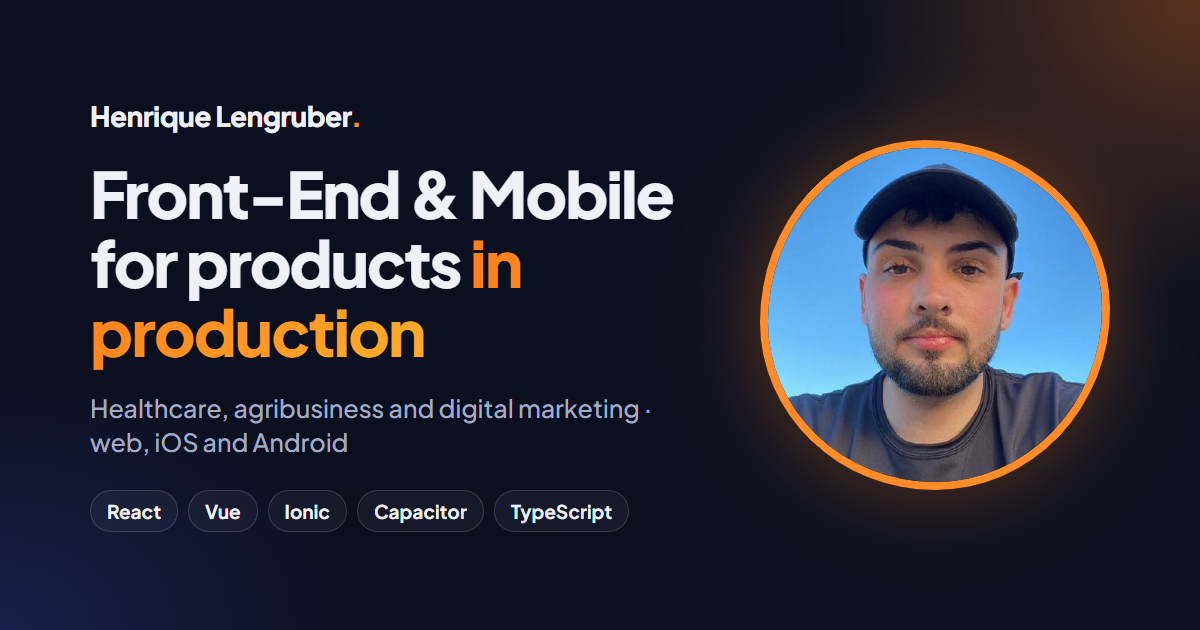
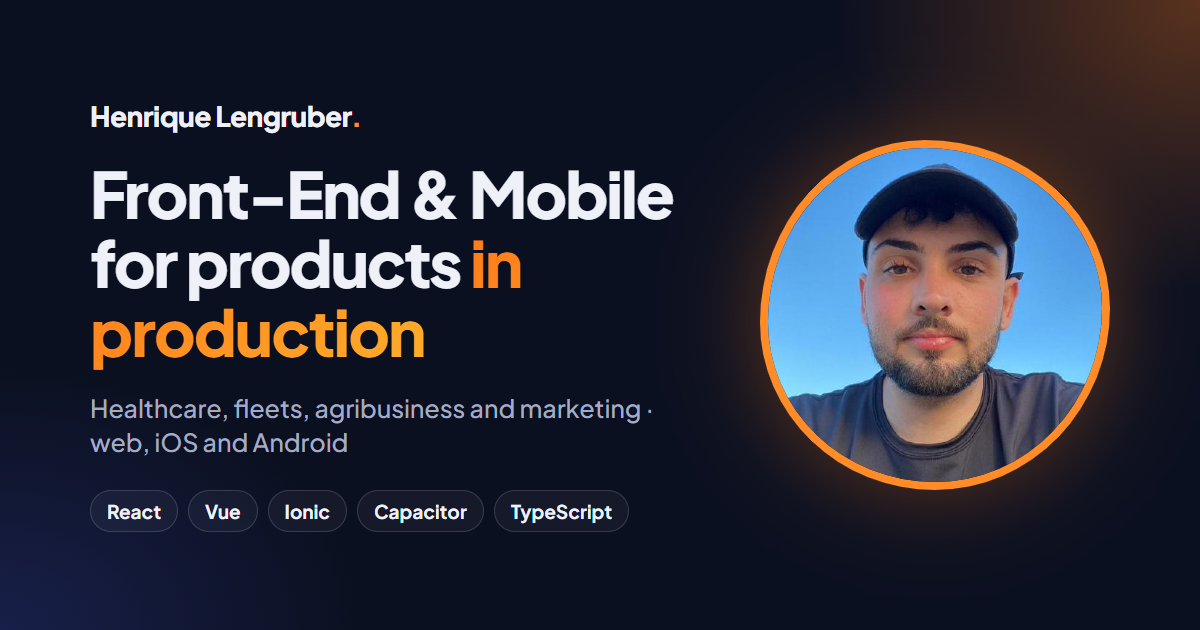
feat: proteção anti-spam no contato, CSP e rastreamento de frotas no texto

Changed region(s): [[0.185, 0.6333, 0.555, 0.6635]]

diff --git a/index.html b/index.html
@@ -3,10 +3,12 @@
 <head>
   <meta charset="utf-8">
   <meta name="viewport" content="width=device-width, initial-scale=1">
+  <meta http-equiv="Content-Security-Policy" content="default-src 'self'; script-src 'self' 'sha256-Du+OJKJSbdUgz5nrHeWWINvez6XKDDU/tyj/5c2uvwo=' https://www.googletagmanager.com; style-src 'self' https://fonts.googleapis.com; font-src https://fonts.gstatic.com; img-src 'self' data: https://*.google-analytics.com https://*.googletagmanager.com; connect-src 'self' https://formsubmit.co https://*.google-analytics.com https://*.analytics.google.com https://*.googletagmanager.com; form-action https://formsubmit.co; base-uri 'self'; object-src 'none'">
+  <meta name="referrer" content="strict-origin-when-cross-origin">
   <title>Henrique Lengruber · Front-End & Mobile</title>
-  <meta name="description" content="Henrique Lengruber, desenvolvedor Front-End e Mobile. Aplicações web e apps iOS e Android com React, Vue, Ionic e TypeScript para saúde, agronegócio e marketing digital.">
+  <meta name="description" content="Henrique Lengruber, desenvolvedor Front-End e Mobile. Aplicações web e apps iOS e Android com React, Vue, Ionic e TypeScript para saúde, rastreamento de frotas, agronegócio e marketing digital.">
   <meta property="og:title" content="Henrique Lengruber · Front-End & Mobile">
-  <meta property="og:description" content="Aplicações web e apps iOS e Android com React, Vue, Ionic e TypeScript. Mais de 5 anos em saúde, agronegócio e marketing digital, do protótipo até a publicação.">
+  <meta property="og:description" content="Aplicações web e apps iOS e Android com React, Vue, Ionic e TypeScript. Mais de 5 anos em saúde, rastreamento de frotas, agronegócio e marketing digital, do protótipo até a publicação.">
   <meta property="og:image" content="https://henriquerl55.github.io/assets/og-image.png">
   <meta property="og:image:width" content="1200">
   <meta property="og:image:height" content="630">
@@ -26,7 +28,7 @@
     "@type": "Person",
     "name": "Henrique Lengruber",
     "jobTitle": "Desenvolvedor Front-End & Mobile",
-    "description": "Desenvolvedor Front-End e Mobile com mais de 5 anos em aplicações web e apps iOS e Android para saúde, agronegócio e marketing digital.",
+    "description": "Desenvolvedor Front-End e Mobile com mais de 5 anos em aplicações web e apps iOS e Android para saúde, rastreamento de frotas, agronegócio e marketing digital.",
     "worksFor": [
       { "@type": "Organization", "name": "Kompa Saúde", "url": "https://www.kompa.com.br/" },
       { "@type": "Organization", "name": "Softers", "url": "https://www.softers.com.br/" }
@@ -38,7 +40,7 @@
     "address": { "@type": "PostalAddress", "addressLocality": "Santa Maria", "addressRegion": "RS", "addressCountry": "BR" },
     "alumniOf": { "@type": "CollegeOrUniversity", "name": "Universidade Federal de Santa Maria", "url": "https://www.ufsm.br/" },
     "knowsLanguage": ["pt-BR", "en"],
-    "knowsAbout": ["React", "React Native", "Vue.js", "Angular", "TypeScript", "Ionic", "Capacitor", "iOS", "Android", "WebRTC", "WebSocket", "Google Maps", "Firebase", "Telemedicina", "Gestão de redes sociais", "Agricultura de precisão"],
+    "knowsAbout": ["React", "React Native", "Vue.js", "Angular", "TypeScript", "Ionic", "Capacitor", "iOS", "Android", "WebRTC", "WebSocket", "Google Maps", "Firebase", "Telemedicina", "Rastreamento de frotas", "Gestão de redes sociais", "Agricultura de precisão"],
     "sameAs": ["https://www.linkedin.com/in/henrique-lengruber-4649a41b0", "https://github.com/HenriqueRL55"]
   }
   </script>
@@ -113,7 +115,7 @@
           <p class="status reveal"><span class="status__dot" aria-hidden="true"></span>Aberto a propostas · remoto · CLT ou PJ</p>
           <p class="hero__hello reveal">Oi, eu sou o Henrique <span class="wave" aria-hidden="true">👋</span></p>
           <h1 class="hero__title reveal">Front-End &amp; Mobile para produtos <span class="accent">em produção</span></h1>
-          <p class="hero__lead reveal">Desenvolvo aplicações web e apps para iOS e Android com React, Vue, Ionic e TypeScript. São mais de 5 anos desenvolvendo sistemas para saúde, agronegócio e marketing digital, do protótipo até a publicação.</p>
+          <p class="hero__lead reveal">Desenvolvo aplicações web e apps para iOS e Android com React, Vue, Ionic e TypeScript. São mais de 5 anos desenvolvendo sistemas para saúde, rastreamento de frotas, agronegócio e marketing digital, do protótipo até a publicação.</p>
 
           <div class="hero__actions reveal">
             <a class="btn" href="#contato">Fale comigo <svg class="icon"><use href="#i-arrow"/></svg></a>
@@ -355,7 +357,7 @@
           <article class="service reveal">
             <span class="service__icon"><svg class="icon"><use href="#i-video"/></svg></span>
             <h3>Tempo real</h3>
-            <p>Filas de atendimento ao vivo com WebSocket e Socket.IO, transcrição por WebRTC e chamadas de vídeo, sem recarregar a página.</p>
+            <p>Rastreamento de frotas com mais de 800 mil veículos no mapa, filas de atendimento ao vivo com WebSocket e Socket.IO, transcrição por WebRTC e chamadas de vídeo, sem recarregar a página.</p>
           </article>
         </div>
       </div>
@@ -651,7 +653,7 @@
             </ul>
           </div>
 
-          <form class="form" id="form-contato" data-default-topic="Contato" data-msg-sending="Enviando…" data-msg-success="Mensagem enviada! Respondo no e-mail que você informou." data-msg-error="Não consegui enviar por aqui, então abri o seu app de e-mail com a mensagem pronta." action="https://formsubmit.co/henriquerl22@outlook.com" method="post">
+          <form class="form" id="form-contato" data-default-topic="Contato" data-msg-sending="Enviando…" data-msg-success="Mensagem enviada! Respondo no e-mail que você informou." data-msg-cooldown="Você acabou de enviar uma mensagem. Aguarde um minuto para enviar outra." data-msg-error="Não consegui enviar por aqui, então abri o seu app de e-mail com a mensagem pronta." action="https://formsubmit.co/henriquerl22@outlook.com" method="post">
             <fieldset class="form__topics">
               <legend>Assunto</legend>
               <label class="chip"><input type="radio" name="assunto" value="Vaga CLT" checked><span>Vaga CLT</span></label>
@@ -660,11 +662,11 @@
               <label class="chip"><input type="radio" name="assunto" value="Outro"><span>Outro</span></label>
             </fieldset>
             <div class="form__row">
-              <label class="field"><span>Seu nome</span><input type="text" name="nome" autocomplete="name" required></label>
-              <label class="field"><span>Empresa</span><input type="text" name="empresa" autocomplete="organization"></label>
+              <label class="field"><span>Seu nome</span><input type="text" name="nome" autocomplete="name" maxlength="80" required></label>
+              <label class="field"><span>Empresa</span><input type="text" name="empresa" autocomplete="organization" maxlength="80"></label>
             </div>
-            <label class="field"><span>Seu e-mail</span><input type="email" name="email" autocomplete="email" required></label>
-            <label class="field"><span>Mensagem</span><textarea name="mensagem" rows="5" required></textarea></label>
+            <label class="field"><span>Seu e-mail</span><input type="email" name="email" autocomplete="email" maxlength="120" required></label>
+            <label class="field"><span>Mensagem</span><textarea name="mensagem" rows="5" minlength="10" maxlength="2000" required></textarea></label>
             <label class="form__honey" aria-hidden="true">Não preencha<input type="text" name="_honey" tabindex="-1" autocomplete="off"></label>
             <input type="hidden" name="_subject" value="Contato pelo portfólio">
             <button class="btn btn--full" type="submit">Enviar mensagem <svg class="icon"><use href="#i-send"/></svg></button>

diff --git a/en/index.html b/en/index.html
@@ -3,10 +3,12 @@
 <head>
   <meta charset="utf-8">
   <meta name="viewport" content="width=device-width, initial-scale=1">
+  <meta http-equiv="Content-Security-Policy" content="default-src 'self'; script-src 'self' 'sha256-Du+OJKJSbdUgz5nrHeWWINvez6XKDDU/tyj/5c2uvwo=' https://www.googletagmanager.com; style-src 'self' https://fonts.googleapis.com; font-src https://fonts.gstatic.com; img-src 'self' data: https://*.google-analytics.com https://*.googletagmanager.com; connect-src 'self' https://formsubmit.co https://*.google-analytics.com https://*.analytics.google.com https://*.googletagmanager.com; form-action https://formsubmit.co; base-uri 'self'; object-src 'none'">
+  <meta name="referrer" content="strict-origin-when-cross-origin">
   <title>Henrique Lengruber · Front-End & Mobile Developer</title>
-  <meta name="description" content="Henrique Lengruber, Front-End and Mobile developer from Brazil. Web applications and iOS and Android apps with React, Vue, Ionic and TypeScript for healthcare, agribusiness and digital marketing.">
+  <meta name="description" content="Henrique Lengruber, Front-End and Mobile developer from Brazil. Web applications and iOS and Android apps with React, Vue, Ionic and TypeScript for healthcare, fleet tracking, agribusiness and digital marketing.">
   <meta property="og:title" content="Henrique Lengruber · Front-End & Mobile Developer">
-  <meta property="og:description" content="Web applications and iOS and Android apps with React, Vue, Ionic and TypeScript. 5+ years in healthcare, agribusiness and digital marketing, from prototype to release.">
+  <meta property="og:description" content="Web applications and iOS and Android apps with React, Vue, Ionic and TypeScript. 5+ years in healthcare, fleet tracking, agribusiness and digital marketing, from prototype to release.">
   <meta property="og:image" content="https://henriquerl55.github.io/assets/og-image-en.png">
   <meta property="og:image:width" content="1200">
   <meta property="og:image:height" content="630">
@@ -26,7 +28,7 @@
     "@type": "Person",
     "name": "Henrique Lengruber",
     "jobTitle": "Front-End & Mobile Developer",
-    "description": "Front-End and Mobile developer with 5+ years building web applications and iOS and Android apps for healthcare, agribusiness and digital marketing.",
+    "description": "Front-End and Mobile developer with 5+ years building web applications and iOS and Android apps for healthcare, fleet tracking, agribusiness and digital marketing.",
     "worksFor": [
       { "@type": "Organization", "name": "Kompa Saúde", "url": "https://www.kompa.com.br/" },
       { "@type": "Organization", "name": "Softers", "url": "https://www.softers.com.br/" }
@@ -38,7 +40,7 @@
     "address": { "@type": "PostalAddress", "addressLocality": "Santa Maria", "addressRegion": "RS", "addressCountry": "BR" },
     "alumniOf": { "@type": "CollegeOrUniversity", "name": "Universidade Federal de Santa Maria", "url": "https://www.ufsm.br/" },
     "knowsLanguage": ["pt-BR", "en"],
-    "knowsAbout": ["React", "React Native", "Vue.js", "Angular", "TypeScript", "Ionic", "Capacitor", "iOS", "Android", "WebRTC", "WebSocket", "Google Maps", "Firebase", "Telehealth", "Social media management", "Precision agriculture"],
+    "knowsAbout": ["React", "React Native", "Vue.js", "Angular", "TypeScript", "Ionic", "Capacitor", "iOS", "Android", "WebRTC", "WebSocket", "Google Maps", "Firebase", "Telehealth", "Fleet tracking", "Social media management", "Precision agriculture"],
     "sameAs": ["https://www.linkedin.com/in/henrique-lengruber-4649a41b0", "https://github.com/HenriqueRL55"]
   }
   </script>
@@ -114,7 +116,7 @@
           <p class="status reveal"><span class="status__dot" aria-hidden="true"></span>Open to remote roles · UTC−3 · English: intermediate</p>
           <p class="hero__hello reveal">Hi, I'm Henrique <span class="wave" aria-hidden="true">👋</span></p>
           <h1 class="hero__title reveal">Front-End &amp; Mobile for products <span class="accent">in production</span></h1>
-          <p class="hero__lead reveal">I build web applications and iOS and Android apps with React, Vue, Ionic and TypeScript. That's 5+ years building software for healthcare, agribusiness and digital marketing, from prototype to release.</p>
+          <p class="hero__lead reveal">I build web applications and iOS and Android apps with React, Vue, Ionic and TypeScript. That's 5+ years building software for healthcare, fleet tracking, agribusiness and digital marketing, from prototype to release.</p>
 
           <div class="hero__actions reveal">
             <a class="btn" href="#contact">Get in touch <svg class="icon"><use href="#i-arrow"/></svg></a>
@@ -356,7 +358,7 @@
           <article class="service reveal">
             <span class="service__icon"><svg class="icon"><use href="#i-video"/></svg></span>
             <h3>Real time</h3>
-            <p>Live care queues with WebSocket and Socket.IO, WebRTC transcription and video calls, without reloading the page.</p>
+            <p>Fleet tracking with 800k+ vehicles on the map, live care queues with WebSocket and Socket.IO, WebRTC transcription and video calls, without reloading the page.</p>
           </article>
         </div>
       </div>
@@ -653,7 +655,7 @@
             </ul>
           </div>
 
-          <form class="form" id="form-contato" data-default-topic="Contact" data-msg-sending="Sending…" data-msg-success="Message sent! I'll reply to the email you provided." data-msg-error="I couldn't send it from here, so I opened your email app with the message ready." action="https://formsubmit.co/henriquerl22@outlook.com" method="post">
+          <form class="form" id="form-contato" data-default-topic="Contact" data-msg-sending="Sending…" data-msg-success="Message sent! I'll reply to the email you provided." data-msg-cooldown="You just sent a message. Please wait a minute before sending another." data-msg-error="I couldn't send it from here, so I opened your email app with the message ready." action="https://formsubmit.co/henriquerl22@outlook.com" method="post">
             <fieldset class="form__topics">
               <legend>Subject</legend>
               <label class="chip"><input type="radio" name="assunto" value="Full-time role" checked><span>Full-time role</span></label>
@@ -662,11 +664,11 @@
               <label class="chip"><input type="radio" name="assunto" value="Other"><span>Other</span></label>
             </fieldset>
             <div class="form__row">
-              <label class="field"><span>Your name</span><input type="text" name="nome" autocomplete="name" required></label>
-              <label class="field"><span>Company</span><input type="text" name="empresa" autocomplete="organization"></label>
+              <label class="field"><span>Your name</span><input type="text" name="nome" autocomplete="name" maxlength="80" required></label>
+              <label class="field"><span>Company</span><input type="text" name="empresa" autocomplete="organization" maxlength="80"></label>
             </div>
-            <label class="field"><span>Your email</span><input type="email" name="email" autocomplete="email" required></label>
-            <label class="field"><span>Message</span><textarea name="mensagem" rows="5" required></textarea></label>
+            <label class="field"><span>Your email</span><input type="email" name="email" autocomplete="email" maxlength="120" required></label>
+            <label class="field"><span>Message</span><textarea name="mensagem" rows="5" minlength="10" maxlength="2000" required></textarea></label>
             <label class="form__honey" aria-hidden="true">Leave this empty<input type="text" name="_honey" tabindex="-1" autocomplete="off"></label>
             <input type="hidden" name="_subject" value="Portfolio contact">
             <button class="btn btn--full" type="submit">Send message <svg class="icon"><use href="#i-send"/></svg></button>

diff --git a/main.js b/main.js
@@ -1,6 +1,9 @@
 const EMAIL = 'henriquerl22@outlook.com';
 const FORM_ENDPOINT = `https://formsubmit.co/ajax/${EMAIL}`;
 const COPY_FEEDBACK_MS = 2000;
+const MIN_FILL_MS = 3000;
+const SEND_COOLDOWN_MS = 60000;
+const LAST_SENT_STORAGE_KEY = 'portfolio-contact-last-sent';
 
 function setupNav() {
   const nav = document.querySelector('.nav');
@@ -124,11 +127,29 @@ function openMailto({ subject, body }) {
   window.location.href = `mailto:${EMAIL}?subject=${encodeURIComponent(subject)}&body=${encodeURIComponent(body)}`;
 }
 
+function readLastSent() {
+  try {
+    return Number(window.localStorage.getItem(LAST_SENT_STORAGE_KEY)) || 0;
+  } catch {
+    return 0;
+  }
+}
+
+function storeLastSent(timestamp) {
+  try {
+    window.localStorage.setItem(LAST_SENT_STORAGE_KEY, String(timestamp));
+  } catch {
+    return false;
+  }
+  return true;
+}
+
 function setupContactForm() {
   const form = document.getElementById('form-contato');
   if (!form) return;
   const status = form.querySelector('.form__status');
   const button = form.querySelector('[type="submit"]');
+  const loadedAt = Date.now();
 
   function setStatus(key) {
     status.textContent = form.dataset[key];
@@ -141,11 +162,17 @@ function setupContactForm() {
 
     const contact = readContact(form);
     if (contact.isSpam) return;
+    const now = Date.now();
+    if (now - loadedAt < MIN_FILL_MS || now - readLastSent() < SEND_COOLDOWN_MS) {
+      setStatus('msgCooldown');
+      return;
+    }
 
     button.disabled = true;
     setStatus('msgSending');
     try {
       await sendContact(contact.payload);
+      storeLastSent(Date.now());
       form.reset();
       setStatus('msgSuccess');
     } catch {

diff --git a/styles.css b/styles.css
@@ -951,7 +951,7 @@ strong { font-weight: 700; color: var(--text); }
 
 .form__note { font-size: 13px; color: var(--muted); text-align: center; }
 .form__status[data-state="msgSuccess"] { color: var(--green); }
-.form__status[data-state="msgError"] { color: var(--orange-2); }
+.form__status[data-state="msgError"], .form__status[data-state="msgCooldown"] { color: var(--orange-2); }
 .btn:disabled { opacity: 0.6; cursor: progress; transform: none; }
 
 .footer { margin-top: var(--section); padding: 40px 0; border-top: 1px solid var(--line); background: var(--bg-2); }
